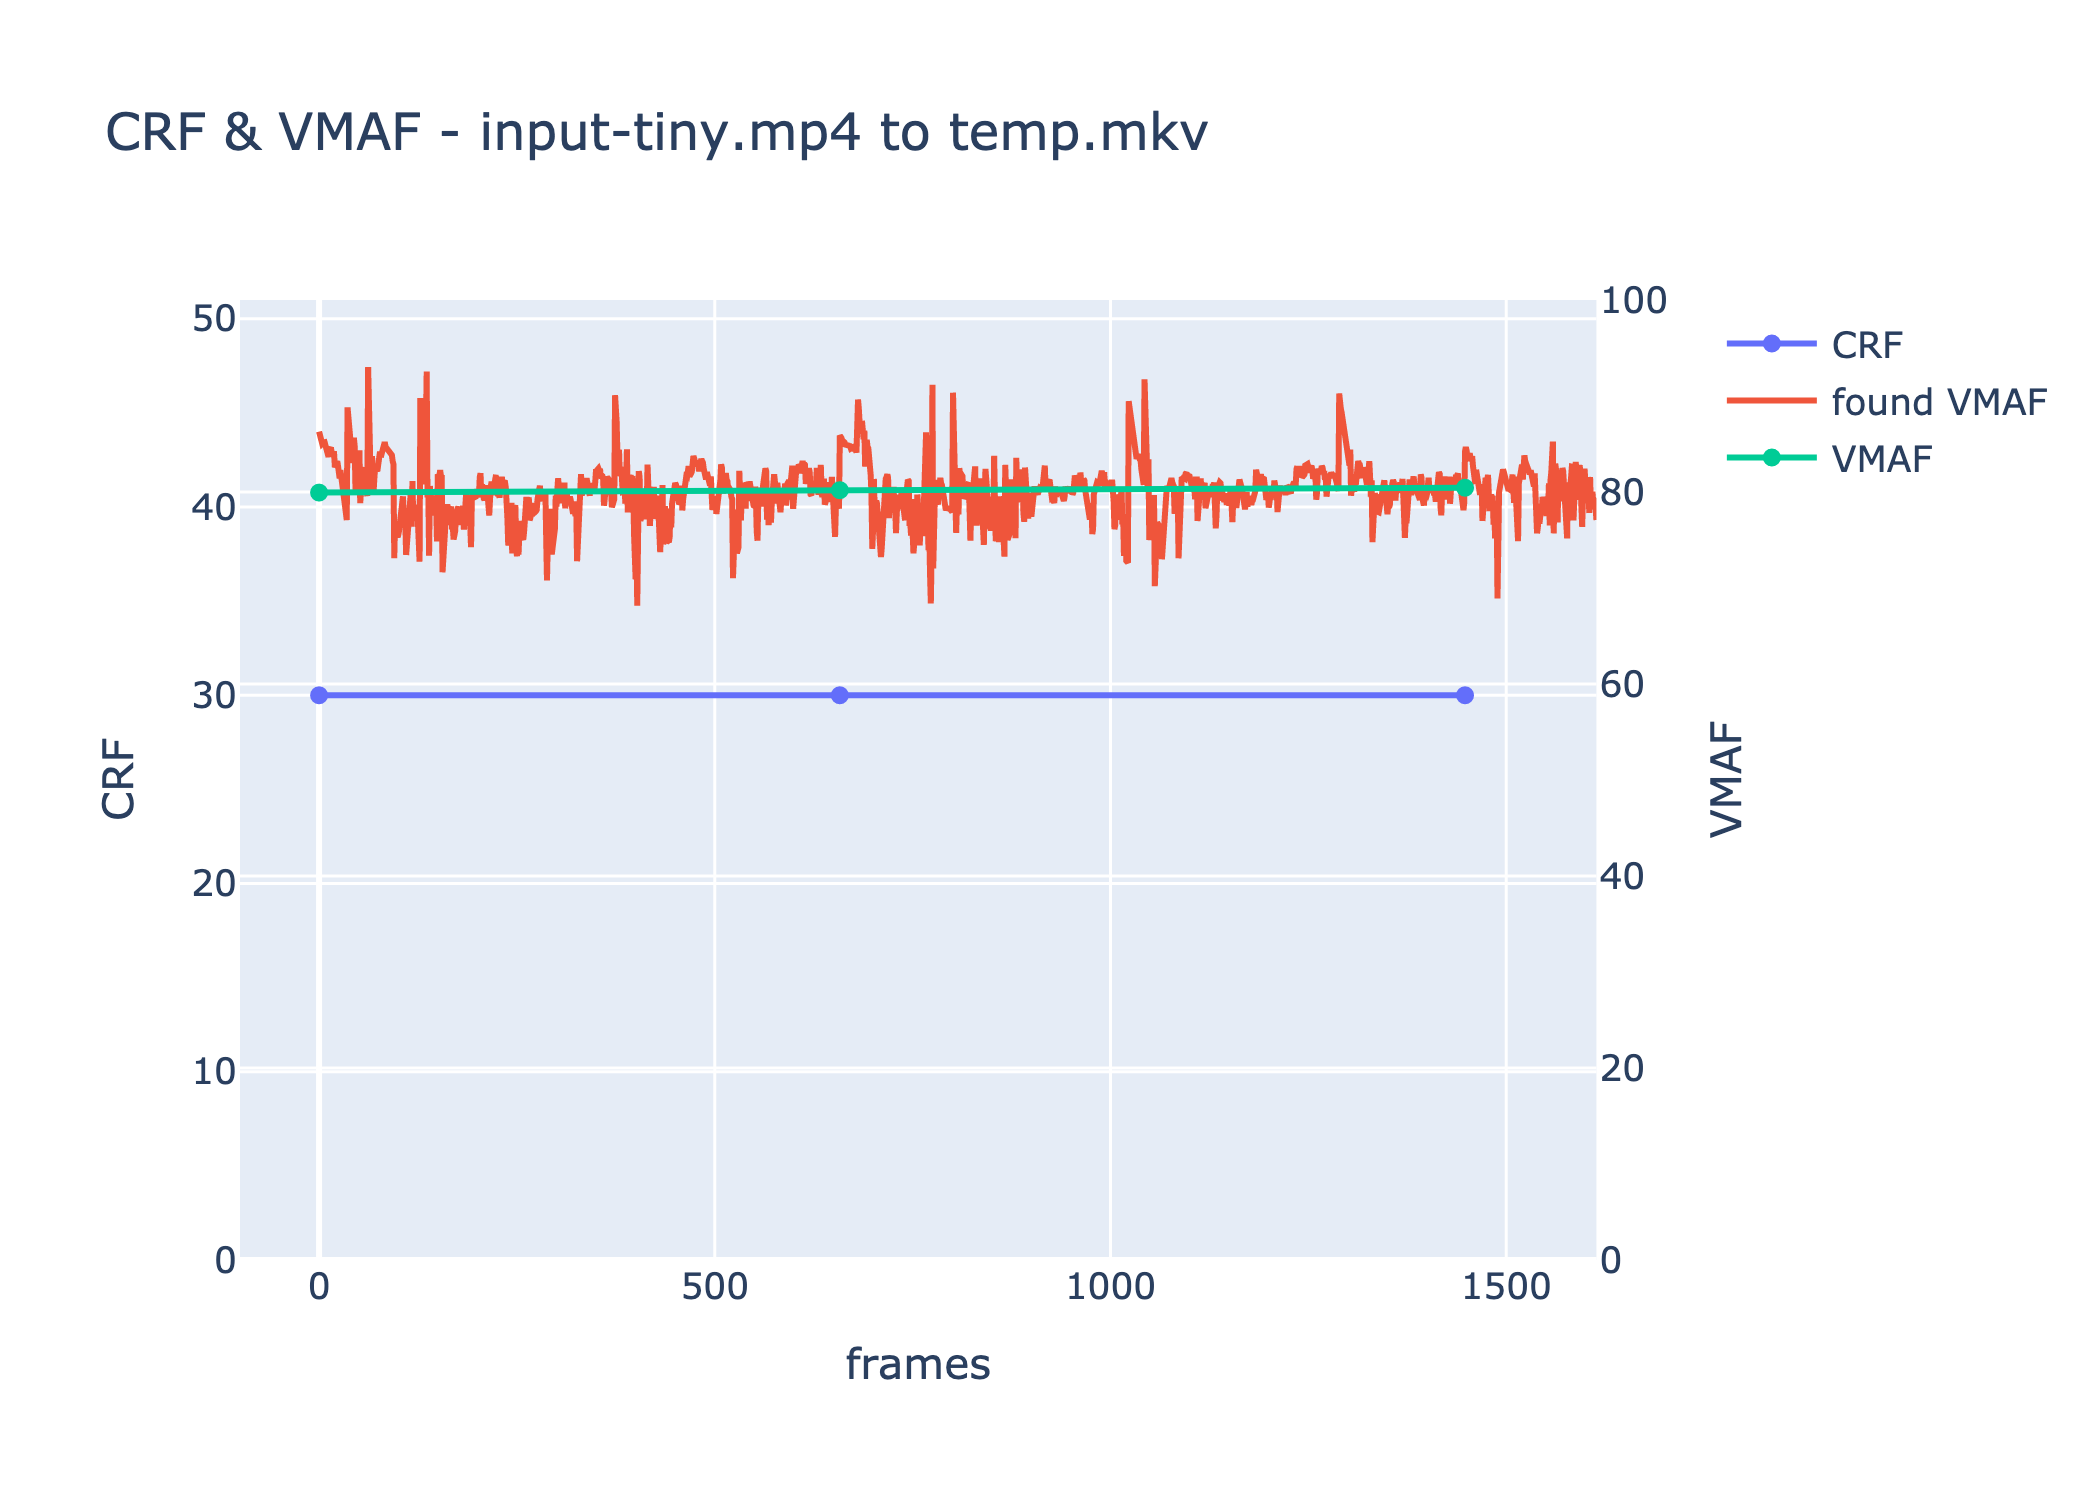
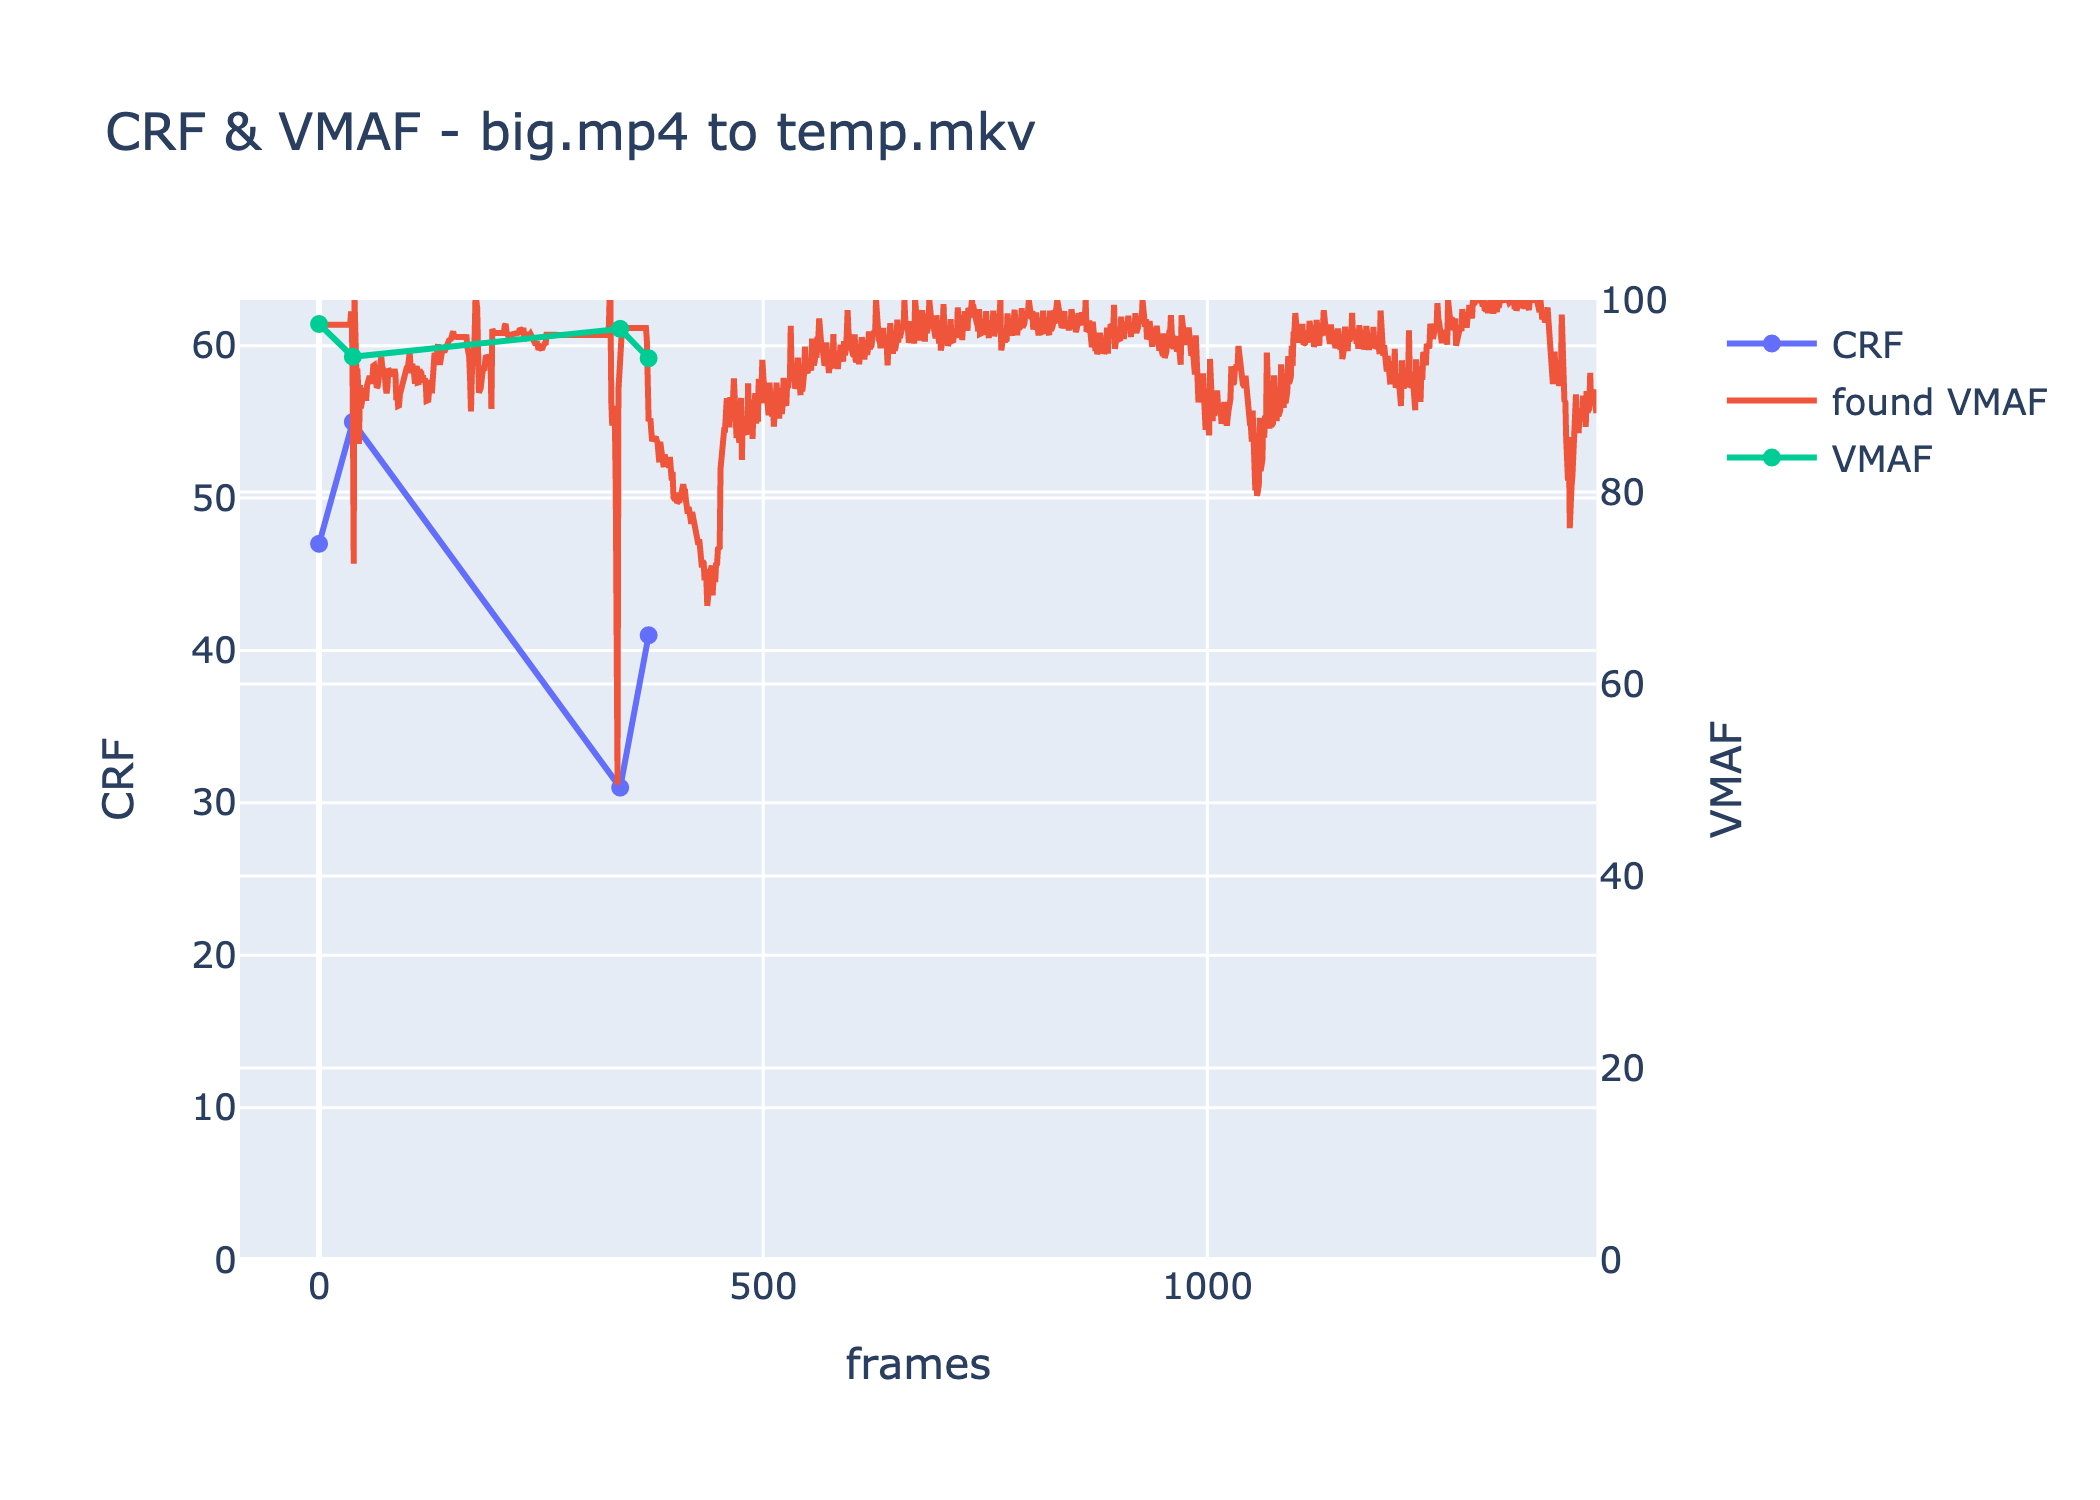
fully working baseline project

diff --git a/src/v2-target-videoCRF-minimal.py b/src/v2-target-videoCRF-minimal.py
@@ -247,12 +247,13 @@ def _compress_video_section(
 
 compressing_video(
     # "input_mov.mp4",
-    "input-tiny.mp4",
+    # "input-tiny.mp4",
+    "big.mp4",
     "temp.mkv",
-    ffmpeg.H264(tune="animation", preset="veryfast"),
-    # ffmpeg.SVTAV1(),
-    ffmpeg_heuristics.VMAF(80),
+    # ffmpeg.H264(tune="animation", preset="veryfast"),
+    ffmpeg.SVTAV1(preset=6),
+    ffmpeg_heuristics.VMAF(94),
     # scene_detection_threshold=40,
-    minimum_scene_length_seconds=0.4,
-    multithreading_threads=1,
+    minimum_scene_length_seconds=0,
+    multithreading_threads=2,
 )
